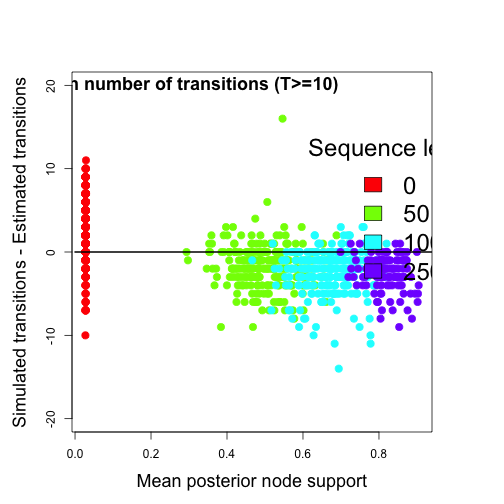
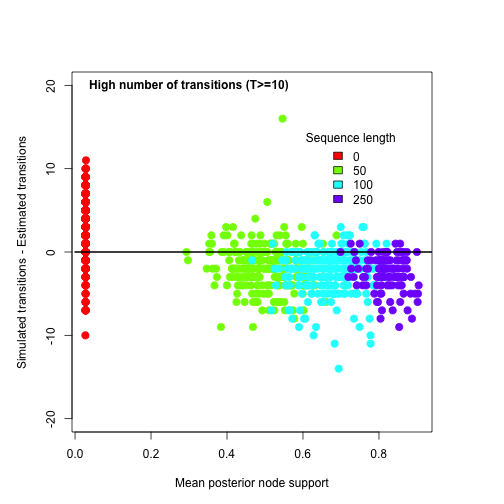
updated preliminary results

diff --git a/comp_analyses_setup/README.md b/comp_analyses_setup/README.md
@@ -41,26 +41,26 @@ par(mar = c(5, 5, 5, 5))
 #par(col.lab = 'white')
 cols_plots <- rainbow(4)
 
-plot(dat$posterior[h_trans], dat$bias[h_trans], pch = 20, ylim = c(-20, 20), col = cols_plots[dat$slen[h_trans]], cex = 2, xlab = 'Mean posterior node support', ylab = 'Simulated transitions - Estimated transitions', cex.lab = 1.5)
+plot(dat$posterior[h_trans], dat$bias[h_trans], pch = 20, ylim = c(-20, 20), col = cols_plots[dat$slen[h_trans]], cex = 2, xlab = 'Mean posterior node support', ylab = 'Simulated transitions - Estimated transitions', cex.lab = 1)
 lines(x = c(0, 1), y = c(0, 0), col = 'black', lwd = 2)
-legend(x = 0.6, y = 15, bty = 'n', legend = c('0', '50', '100', '250'), fill = cols_plots, title = 'Sequence length', cex = 2)
-text(x = 0.3, y = 20, labels = expression(bold('High number of transitions (T>=10)')), cex = 1.5)
+legend(x = 0.6, y = 15, bty = 'n', legend = c('0', '50', '100', '250'), fill = cols_plots, title = 'Sequence length', cex = 1)
+text(x = 0.3, y = 20, labels = expression(bold('High number of transitions (T>=10)')), cex = 1)
 ```
 
 ![plot of chunk unnamed-chunk-3](figure/unnamed-chunk-31.png) 
 
 ```r
-plot(dat$posterior[m_trans], dat$bias[m_trans], pch = 20, ylim = c(-20, 20), col = cols_plots[dat$slen[m_trans]], cex = 2, xlab = 'Mean posterior node support', ylab = '', cex.lab = 1.5)
+plot(dat$posterior[m_trans], dat$bias[m_trans], pch = 20, ylim = c(-20, 20), col = cols_plots[dat$slen[m_trans]], cex = 2, xlab = 'Mean posterior node support', ylab = '', cex.lab = 1)
 lines(x = c(0, 1), y = c(0, 0), col = 'black', lwd = 2 )
-text(x = 0.35, y = 20, labels = expression(bold('Medium number of transitions (5<=T<10)')), cex = 1.5)
+text(x = 0.35, y = 20, labels = expression(bold('Medium number of transitions (5<=T<10)')), cex = 1)
 ```
 
 ![plot of chunk unnamed-chunk-3](figure/unnamed-chunk-32.png) 
 
 ```r
-plot(dat$posterior[l_trans], dat$bias[l_trans], pch = 20, ylim = c(-20, 20), col = cols_plots[dat$slen[l_trans]], cex = 2, xlab = 'Mean posterior node support', ylab = '', cex.lab = 1.5)
+plot(dat$posterior[l_trans], dat$bias[l_trans], pch = 20, ylim = c(-20, 20), col = cols_plots[dat$slen[l_trans]], cex = 2, xlab = 'Mean posterior node support', ylab = '', cex.lab = 1)
 lines(x = c(0, 1), y = c(0, 0), col = 'black' , lwd = 2)
-text(x = 0.3, y = 20, labels = expression(bold('Low number of transitions (T<5)')), cex = 1.5)
+text(x = 0.3, y = 20, labels = expression(bold('Low number of transitions (T<5)')), cex = 1)
 ```
 
 ![plot of chunk unnamed-chunk-3](figure/unnamed-chunk-33.png) 
